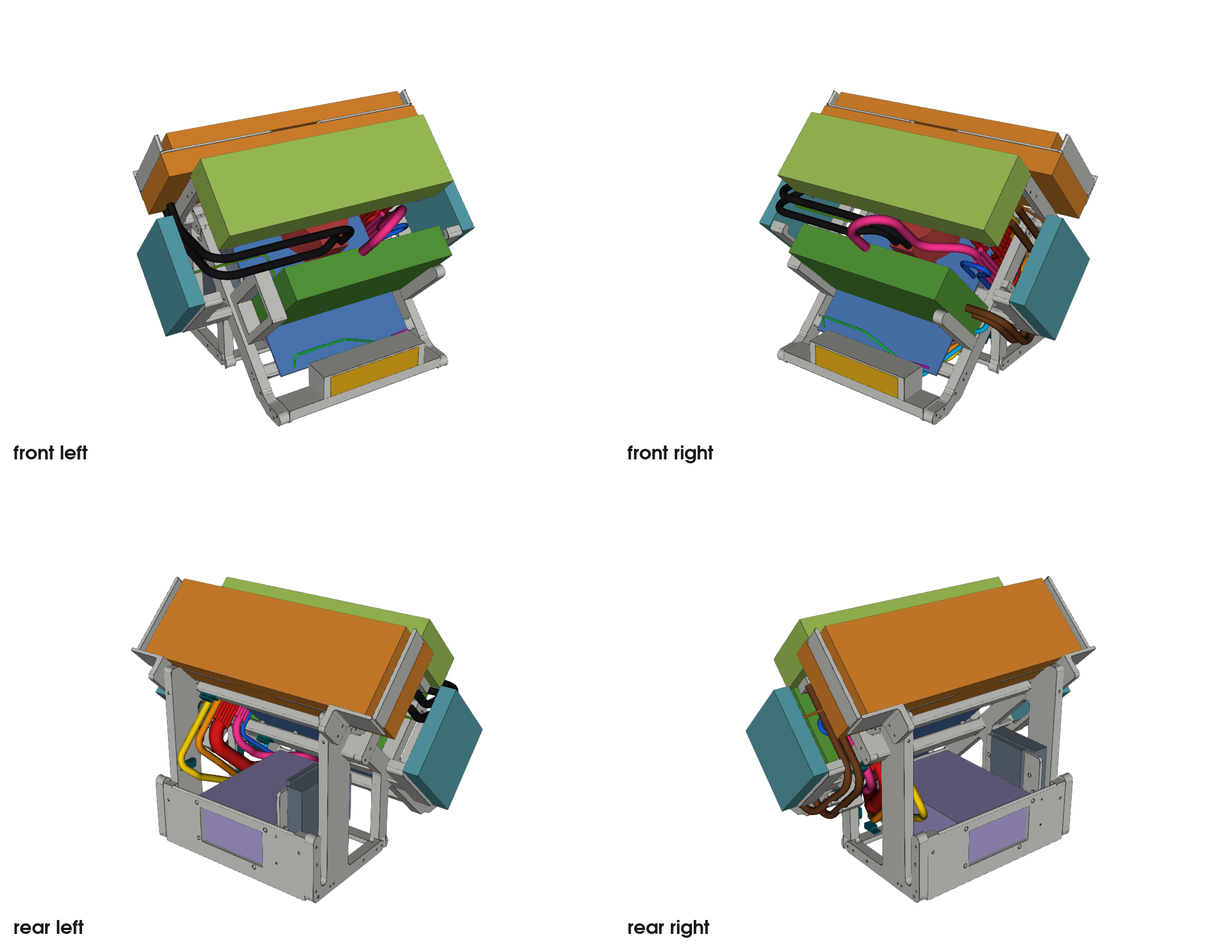
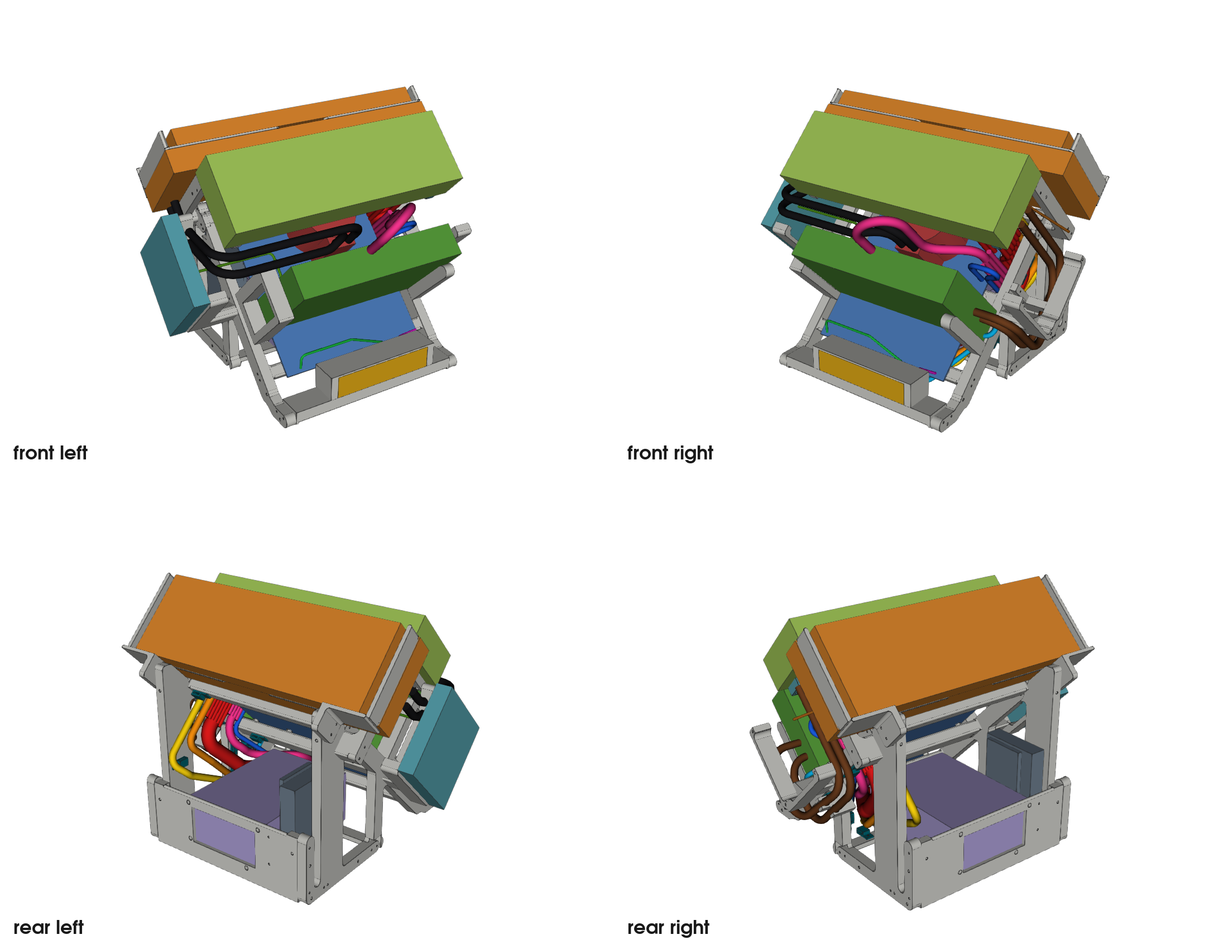
Bring the documents and the previews in step with revision 18
Grok (chores) corrected README, AGENTS.md, CLAUDE.md, the feature map, the
materials sheet and the verify skill: no sill and no light line, the carrier
on beam_front, the new masses and counts, eleven cable routes, the card's
cable at 639 mm, skeleton_screws.py, and six new rows of the feature map for
the layer's new checks. The main session read the diff, corrected one
attribution to the owner and the case count after the commit before.

Verified: none (documents and one preview)

diff --git a/docs/feature-map.md b/docs/feature-map.md
@@ -16,7 +16,7 @@ Use it two ways: as the definition of done for a revision (no row may get worse)
 | The CPU block's hoses leave where the model says | hose routes | gauge `G5` fits with a little play; the fittings turn | fitting spacing 23.8 mm not measured |
 | The side fans screw to their brackets | checks 5, 11, 17 | gauge `G6` fits | none |
 | A 3.5" or a 2.5" drive screws into the left bay | check 13 | none | no drive on hand; the bay is a provision |
-| The front I/O module sits in its carrier | check 20 (end blocks 11.60 mm, top plate 2.70 mm, 2.50 mm behind the module); check 22 (rear wall 2.90 mm, at least 2); `test_checks.py`: a module grown to its whole allowance leaves the sill unchanged and passes every check | none | every dimension of the module is a placeholder |
+| The front I/O module sits in its carrier | check 20 (end blocks 11.60 mm, top plate 2.70 mm; a 15 mm box behind the module is empty of the skeleton, and `beam_low` stands 12.55 mm behind that box); four M3 x 25 from below through `beam_front` hold the carrier; `test_checks.py`: a module grown to its whole allowance leaves `beam_front` unchanged and passes every check | none | every dimension of the module is a placeholder; the cables are routed for 2.5 mm of growth to the rear, and check 20's room allows 12.55 mm |
 
 ## Using the case
 
@@ -24,12 +24,15 @@ Use it two ways: as the definition of done for a revision (no row may get worse)
 |---|---|---|---|
 | A plug goes into each rear connector of the board and its cable leaves to the rear | `zone_access.py`: zone free, a 52 mm bundle gets out, and 52 mm with the organic layer in place (40 mm asked) | none | the plug's 50 mm depth is an assumption |
 | A plug goes into each video output of the card and its cable leaves to the rear | `zone_access.py`: zone free, a 72 mm bundle gets out, and 56 mm with the organic layer in place (40 mm asked) | none | which part of the bracket carries the outputs is read off a photograph |
+| The card's power plug can be put in | the empty box `PLUG_ZONE` (in `EMPTY_BOXES`) and the gate in the bone over the card | none | the socket's place on the card is read off a picture (12 mm tolerance) and the plug's length is an assumption |
 | A hand reaches the board's rear connectors | `zone_access.py`, the hand line: a 50 mm ball without the layer, 44 mm with it (budget 44; the layer costs the hand 6 mm) | none | the owner confirmed the budget of 44 mm on 17 Nov 2026; a hand is not a ball |
 | A drive goes in and out with the rest assembled, once the rear panel is off | `drive_access.py`: least tilt 28° of 30° allowed, computed with the layer's piece `rear_panel` taken off (`REMOVED_FOR_DRIVE`); the layer, the panel included, keeps 13.4 mm from a drive in its seat (10 asked); `test_checks.py`: with the panel counted there is no way out | none | 2° of margin; since revision 17 the panel's four screws come out first (the owner has not confirmed this) |
 | Every internal cable reaches its socket with its real length | `cables.py` | none | several real lengths are assumptions; the front I/O leads are not measured |
+| A cable or a hose does not pass through the organic layer | `organic_frame.py`'s check "no cable or hose in the layer" (`strand_checks`), cases in `test_organic.py` | none | measured to voxel centres, the printed surface can stand up to half a voxel (0.75 mm) nearer |
 | Both pairs of hoses reach without a bend tighter than 35 mm | hose routes, checks 9 and 10; check 21 (the CPU clip shadows 112 mm² of the fan's circle, limit 400); `test_checks.py`: the CPU clip still passes check 10 with either hose moved 1 mm | none | hoses are rigid lines in the model; no maker states a bend radius; the ARCTIC length is 450 or 500 mm depending on the source |
 | Nothing sticks out to catch a passer-by | check 8 (|X| 229, the fans and their brackets 260, front plane) | none | none |
-| The power button, the ports and the light line face the user | `front_sill`, check 20 (the cable window lies behind the module's rear face), `cables.py` (the front USB cables pass through the window) | none | placeholder module; the LED strip is not chosen |
+| The power button and the ports face the user | check 20 (a 15 mm box behind the module is empty of the skeleton); `cables.py` (the front USB cables start on the module's rear face) | none | every dimension of the module is a placeholder |
+| The front I/O module's carrier slides out to the front with the layer on | `carrier_checks` | none | none |
 
 ## Carrying the load
 
@@ -37,20 +40,23 @@ Use it two ways: as the definition of done for a revision (no row may get worse)
 |---|---|---|---|
 | The skeleton carries every component with a safety of 3 across the layers | `strength.py`, "stiff" model, worst 2.87 MPa of 6.7 | none | ABS figures are typical values, not this spool's |
 | A knock on a fan, a pull on a cable, the card's weight | checks 17, 18, 19 (margins 2.56, 3.29, 2.37) | none | hand calculations, no mesh |
-| An insert holds its screw | check 15: every joint engages 3.5 to 4.0 mm of thread, the minimum of the entry and the insert's 4.0 mm (the bill: 4.00 mm on every length except M3 x 20, which is 3.50 mm on 30 joints); check 7: walls as plain distances as well as the volume of the ring, at least 1.6 mm over the insert's zone (from the mouth, 4.3 mm) and 1.2 mm deeper and under the floor. The report's tightest five in the zone are 2.300, 2.300, 2.700, 2.700 and 2.700 mm; the tightest five below it and under the floor are 1.300 mm | coupon `C2` waits for the inserts | pull-out strength is not measured (two joints see about 225 N and 200 N in their worst case); the pilot's 4.4 mm is the maker's figure until `C2` is tried; the insert's depth is set by hand (flush, `docs/printer-and-materials.md`), and nothing in the model stops one pushed deeper |
-| The organic layer survives a 30 N push anywhere | `organic_strength.py`, each piece held at its own pads: `main` worst 6.5 MPa, largest movement 2.16 mm; `rear_panel` 6.4 MPa, 0.97 mm (limits 10 MPa and 5 mm); the pieces' own weight is judged too (0.15 and 0.03 MPa). The script exits with an error when a push or the weight is over a limit | none | the allowable is an ABS stand-in (20 MPa across the layers, safety 2, where the skeleton uses 3) on a layer that will be PETG; PETG's strength across the layers is not measured, so the pass is not proved for PETG |
+| An insert holds its screw | check 15: every joint engages 3.5 to 4.0 mm of thread, the minimum of the entry and the insert's 4.0 mm (the bill: 4.00 mm on every length except M3 x 20, which is 3.50 mm on 30 joints); check 7: walls as plain distances as well as the volume of the ring, at least 1.6 mm over the insert's zone (from the mouth, 4.3 mm) and 1.2 mm deeper and under the floor. The report's tightest five in the zone are 1.900, 1.900, 1.900, 1.900 and 2.250 mm; the tightest five below it and under the floor are 1.300 mm | coupon `C2` tried in PETG, not in ABS | pull-out strength is not measured (two joints see about 225 N and 200 N in their worst case); the pilot is 4.5 mm, from the PETG ladder (18 Nov 2026), still to be confirmed in ABS; the insert's depth is set by hand (flush, `docs/printer-and-materials.md`), and nothing in the model stops one pushed deeper |
+| The organic layer survives a 30 N push anywhere | `organic_strength.py`, each piece held at its own pads: `main` worst 7.4 MPa, largest movement 2.60 mm; `rear_panel` 6.4 MPa, 0.97 mm (limits 10 MPa and 5 mm); the pieces' own weight is judged too (0.18 and 0.02 MPa). The script exits with an error when a push or the weight is over a limit | none | the allowable is an ABS stand-in (20 MPa across the layers, safety 2, where the skeleton uses 3) on a layer that will be PETG; PETG's strength across the layers is not measured, so the pass is not proved for PETG |
+| A push on any film strand or cross-thread stays within the limits | the probes in `organic_strength.py` | none | the same ABS stand-in as the row above; PETG's strength across the layers is not measured |
 
 ## Making it
 
 | Feature | Proved in the model | Proved on the hardware | Gap |
 |---|---|---|---|
-| Every skeleton part fits the bed (290 mm) | check 4: every part's box along the world axes is at most 290 mm on each side (`MAX_PART`); `test_checks.py`: a sill grown to 300 mm fails | none | the box is taken along the world axes, so a part that lies at 45° is judged larger than it is (the safe side); no print orientation is recorded, and supports are not looked at |
-| Every joint uses a screw and an insert the owner has | check 15, the bill of fasteners | none | the insert's size is the owner's measurement (4.0 mm long, 4.96 mm outside, 17 Nov 2026); the pilot's diameter is an assumption until `C2` is tried; `C2` is printed in PETG (owner, 17 Nov 2026), so its figure still has to be confirmed in ABS on the first small part |
-| A screwdriver reaches every screw | `assembly_access.py` (exit 1 otherwise; `test_assembly.py`, 51 cases): each of the 120 screws (90 in inserts, 30 into the hardware) has a tool, of those assumed, that no part or hardware solid blocks at the step its joint is complete; check 23 for the screw's own part; the organic pads by `driver_blocked` | none | the tools are assumptions (a straight driver 75 mm with a 30 mm handle, a 2.5 mm L-key, a 45 mm stubby driver) until the owner names his; 22 screws are reached only while the case is being put together, so re-tightening them means taking off what covers them; the organic layer and the cables are not in the case here; the two front I/O screws are not judged (placeholder); a hand is not modelled |
-| The parts can be put together in some order | `assembly_access.py` finds one (45 steps in the case, and the 360 with its two arms put together on the bench first) and writes it to `out/assembly/order.md`; the order is re-checked step by step by the rule the search uses | none | no path is computed for moving a part into its place past the others; nobody holds the part while its first screw goes in; the CPU block and the card have no screw in the model; the card hangs on its hoses from the 360, so it goes into its slot in the step in which the 360 with its arms is bolted to the necks; the order is not tried on printed parts |
+| Every skeleton part fits the bed (290 mm) | check 4: every part's box along the world axes is at most 290 mm on each side (`MAX_PART`); the longest part is 289.7 mm; `test_checks.py`: `beam_front` grown to 300 mm fails | none | the box is taken along the world axes, so a part that lies at 45° is judged larger than it is (the safe side); no print orientation is recorded, and supports are not looked at |
+| Every joint uses a screw and an insert the owner has | check 15, the bill of fasteners | none | the insert's size is the owner's measurement (4.0 mm long, 4.96 mm outside, 17 Nov 2026); the model's pilot is 4.5 mm, from the PETG ladder (`C2`, 18 Nov 2026), still to be confirmed in ABS on the first small part |
+| A screwdriver reaches every screw | `assembly_access.py` (exit 1 otherwise; `test_assembly.py`, 52 cases): each of the 116 screws (86 in inserts, 30 into the hardware) has a tool, of those assumed, that no part or hardware solid blocks at the step its joint is complete; check 23 for the screw's own part; the organic pads by `driver_blocked` | none | the tools are assumptions (a straight driver 75 mm with a 30 mm handle, a 2.5 mm L-key, a 45 mm stubby driver) until the owner names his; 22 screws are reached only while the case is being put together, so re-tightening them means taking off what covers them; the organic layer and the cables are not in the case here; the two front I/O screws are not judged (placeholder); a hand is not modelled |
+| The parts can be put together in some order | `assembly_access.py` finds one (43 steps in the case, and the 360 with its two arms put together on the bench first) and writes it to `out/assembly/order.md`; the order is re-checked step by step by the rule the search uses | none | no path is computed for moving a part into its place past the others; nobody holds the part while its first screw goes in; the CPU block and the card have no screw in the model; the card hangs on its hoses from the 360, so it goes into its slot in the step in which the 360 with its arms is bolted to the necks; the order is not tried on printed parts |
+| The organic layer goes on over the skeleton's screws | the check "no layer in a screw's head" (`head_distance_checks`, 1 mm) and the pad rule against washers in `pad_fits` | none | none |
+| An insert's pilot under a pad is free of the layer | `pilot_checks` | none | none |
 | Printed holes come out the size the model asks | none | `C1` in PETG: about 150 mm on both legs where the model has 150 (owner, 18 Nov 2026, no figures given); `C2` in PETG: inserts sit best in 4.5 to 4.6 mm | ABS is not measured (the skeleton's material); the owner gave "about 150" and no readings; the model's pilot is 4.5 since 18 Nov 2026, from the PETG ladder, to be confirmed on the first small ABS part with an insert; the M3 clearance row of `C2` is not reported |
 | The organic layer prints | `organic_frame.py`, bed check: the piece `rear_panel`, standing as built and turned 45° about the vertical, takes 245.0 x 244.0 mm and is 211.5 mm tall (290 allowed each way); `cad_b6/organic_manifest.py` names any piece that changes outside an expected list | none | `main` is not split into pieces and is not judged against the bed; the panel is 321 mm wide and does not lie flat: printed upright and turned, with support under its bars and legs, not tried on the printer. The trial piece of the layer printed well in PETG (owner, 18 Nov 2026: no problem with the steps of the surface, the supports or the strength), so the surface's steps are no longer an open point; flat supports came off badly and tree supports well, and the parts stuck hard to a bed without glue (`docs/printer-and-materials.md`) |
-| The open rear above the PSU is closed by a panel that leaves the cables, the screws and the PSU alone | `organic_frame.py`: the piece `rear_panel` is one body on four pads (two on `psu_bulkhead`, one on each `rib_B` post), 3 mm and more from `main` (15.7 mm), no voxel in the driver's way to the six screw heads on the bulkhead's rear face, 10 mm from the PSU; `zone_access.py`: the bundles (52 and 56 mm) and the hand (44 mm) are as without it; checks 5, 7 and 15 for its four pilots | none | the case is 10 mm deeper (Y 391.75 against the skeleton's 382); the PSU's fan has no modelled opening and no air gap is asserted; no check judges a driver's way to an organic pad past the skeleton and the hardware (`driver_blocked` looks at the layer's own bones, `assembly_access.py` skips organic pads); for the two top pads it was measured by hand twice: 9.85 mm clear of the antler |
+| The open rear above the PSU is closed by a panel that leaves the cables, the screws and the PSU alone | `organic_frame.py`: the piece `rear_panel` is one body on four pads (two on `psu_bulkhead`, one on each `rib_B` post), 3 mm and more from `main` (5.85 mm), no voxel in the driver's way to the six screw heads on the bulkhead's rear face, 10 mm from the PSU; `zone_access.py`: the bundles (52 and 56 mm) and the hand (44 mm) are as without it; checks 5, 7 and 15 for its four pilots | none | the case is 10 mm deeper (Y 391.75 against the skeleton's 382); the PSU's fan has no modelled opening and no air gap is asserted; no check judges a driver's way to an organic pad past the skeleton and the hardware (`driver_blocked` looks at the layer's own bones, `assembly_access.py` skips organic pads); for the two top pads it was measured by hand twice: 9.85 mm clear of the antler |
 
 ## Budgets
 
@@ -58,9 +64,9 @@ What the owner pays for, recorded in `cad_b6/budgets.json` and held by `cad_b6/c
 
 | Feature | Proved in the model | Proved on the hardware | Gap |
 |---|---|---|---|
-| The skeleton prints from the black ABS on hand | `check_budgets.py`: ABS at 4 walls / 20 % 1732.9 g, ratchet 1767.6 g (+ 2 %), floor 1646.3 g (- 5 %), hard limit 1800 g (90 % of the 2 kg in `hw.ABS_STOCK_G`) | none | 67.1 g (3.7 %) left under the hard limit; supports and rejects are not counted; the 4 walls / 20 % formula is an estimate, not a slicer's figure |
-| The organic layer prints from the PETG ordered | `check_budgets.py`: 2044.0 cm3 (2595.9 g solid) with the rear panel, ratchet + 2 %, floor - 5 %, hard limit 3600 g solid (90 % of 4 kg) | none | solid volume, not the slicer's; supports not counted |
-| The checks run often enough to be used | `check_budgets.py`: the fast `test_checks.py` gated on six counts, each limited to the larger of + 1 and + 10 % rounded down: frame builds 9 (limit 10), `run_checks` calls 127 (limit 139), cable routings 12 (13), cable evaluations 6 (7), zone_access runs 8 (9), drive_access maps 3 (4); a count under its record fails (the suite did less work). Its wall time (355.4 s recorded, 6 workers) warns at its margin of 0.25. The record must be of the working tree's code (its digest) and of the Python and package versions installed now, and hold the 329 cases of `EXPECTED_CASES` | none | wall time depends on the machine's load; counts do not see a slower single operation; on a small count + 1 is more than 10 % (3 drive_access maps may become 4) |
+| The skeleton prints from the black ABS on hand | `check_budgets.py`: ABS at 4 walls / 20 % 1534.6 g, ratchet 1565.3 g (+ 2 %), floor 1457.9 g (- 5 %), hard limit 1800 g (90 % of the 2 kg in `hw.ABS_STOCK_G`) | none | 265.4 g (14.7 %) left under the hard limit; supports and rejects are not counted; the 4 walls / 20 % formula is an estimate, not a slicer's figure |
+| The organic layer prints from the PETG ordered | `check_budgets.py`: 2218.7 cm3 (2818 g solid, `main` 2431 g and `rear_panel` 387 g) with the rear panel, ratchet + 2 %, floor - 5 %, hard limit 3600 g solid (90 % of 4 kg) | none | solid volume, not the slicer's; supports not counted |
+| The checks run often enough to be used | `check_budgets.py`: the fast `test_checks.py` gated on six counts, each limited to the larger of + 1 and + 10 % rounded down: frame builds 9 (limit 10), `run_checks` calls 125 (limit 137), cable routings 13 (14), cable evaluations 6 (7), zone_access runs 8 (9), drive_access maps 3 (4); a count under its record fails (the suite did less work). Its wall time (347.3 s recorded, 6 workers) warns at its margin of 0.25. The record must be of the working tree's code (its digest) and of the Python and package versions installed now, and hold the 328 cases of `EXPECTED_CASES` | none | wall time depends on the machine's load; counts do not see a slower single operation; on a small count + 1 is more than 10 % (3 drive_access maps may become 4) |
 
 ## Not looked at
 

diff --git a/README.md b/README.md
@@ -4,7 +4,7 @@ Ossa is an open, 3D-printed PC case for a liquid-cooled build, modelled as CadQu
 
 This is a design study. Some fit gauges have been printed and tried; no case part has been printed yet.
 
-| Skeleton with hardware | Organic layer (sketch) |
+| Skeleton with hardware | Organic layer |
 |---|---|
 | ![Skeleton with hardware](previews/b6_v0_front_left_hw.png) | ![Organic layer](previews/b6_shell_organic_front_left.png) |
 
@@ -17,12 +17,12 @@ The current layout is called B6.
 - The CPU's 420 mm radiator stands at 90° to the board, behind its top edge.
 - Neither pump is the highest point of its loop. That was the reason for the layout.
 - Radiator fans sit on the outside and blow in. Two 140 mm fans stand on the flanks, outside the radiators' ends since revision 13 (|X| 235..260), and exhaust.
-- The power supply sits under the board. A sill at the front holds the I/O module and a light line.
+- The power supply sits under the board. The front I/O module sits in its carrier on the front beam.
 - Both hose pairs run inside the envelope, so nothing sticks out to snag.
 
 The case is 520.0 mm wide, 382.0 mm deep and 400.0 mm high. The skeleton itself stays inside |X| 229; the side-fan brackets reach the fans' inner face at |X| 235. Every printed part is 290 mm or shorter, to fit a 300 mm printer bed.
 
-The skeleton is 37 printed parts: 3222 cm³, 3354 g solid, ~1756 g at 4 walls and 20 % infill, of which the ABS is 1732.9 g. The organic layer is two pieces, counted in its own report: 2044 cm³, 2596 g of PETG solid. Revision 14a made the card's right-hand rest (`gpu_rest`) and the front I/O module's carrier (`front_io_carrier`) separate small parts, and put the CPU hose clip on the left fan's free corner. Revision 16 cut an open groove through the knee of `visor_arm_left` and `visor_arm_right` so the 360's screw at that end can pass its head. Revision 17 adds the layer's second piece, the rear panel, on four pads, 321 mm wide, printed upright and turned 45 degrees, and taken off before a drive comes out.
+The skeleton is 36 printed parts: 2809.7 cm³, 2925.0 g solid, 1557.6 g at 4 walls and 20 % infill, of which the ABS is 1534.6 g. The organic layer is two pieces, counted in its own report: `main` 1914.2 cm³ (2431 g of PETG solid) and `rear_panel` 304.5 cm³ (387 g). Revision 14a made the card's right-hand rest (`gpu_rest`) and the front I/O module's carrier (`front_io_carrier`) separate small parts, and put the CPU hose clip on the left fan's free corner. Revision 16 cut an open groove through the knee of `visor_arm_left` and `visor_arm_right` so the 360's screw at that end can pass its head. Revision 17 adds the layer's second piece, the rear panel, on four pads, 321 mm wide, printed upright and turned 45 degrees, and taken off before a drive comes out. Revision 18 removes the front sill and the light line, and holds the carrier by four M3 x 25 from below through `beam_front`.
 
 | Component | Model |
 |---|---|
@@ -39,12 +39,13 @@ The skeleton is 37 printed parts: 3222 cm³, 3354 g solid, ~1756 g at 4 walls an
 | `cad_b6/hardware.py` | The only place hardware dimensions and mounting coordinates live |
 | `cad_b6/frame_v0.py` | The skeleton, its checks, the report and the STEP export |
 | `cad_b6/rounding.py` | Rounds the skeleton's corners where the checks allow it |
-| `cad_b6/test_checks.py` | Damages the model on purpose to prove each check fails when it should (329 cases) |
-| `cad_b6/assembly_access.py`, `cad_b6/test_assembly.py` | Whether every screw can be driven, and one order of assembly: the 360 with its two arms is a bench group, and a part that only sits on another goes on after it (51 cases) |
+| `cad_b6/test_checks.py` | Damages the model on purpose to prove each check fails when it should (328 cases) |
+| `cad_b6/assembly_access.py`, `cad_b6/test_assembly.py` | Whether every screw can be driven, and one order of assembly: the 360 with its two arms is a bench group, and a part that only sits on another goes on after it (52 cases) |
+| `cad_b6/skeleton_screws.py` | The skeleton's screws (seat, axis, head, washer) that both `assembly_access.py` and the organic layer read |
 | `cad_b6/hoses.py`, `hose_routes.py` | Hose routes built from straight runs and constant-radius bends |
 | `cad_b6/strength.py` | Linear finite-element check of the skeleton, and plastic needed per infill |
 | `cad_b6/organic_frame.py`, `organic_strength.py`, `organic_manifest.py` | The organic outer layer as named pieces with their fixings, the strength check of each piece, and a fingerprint of each piece |
-| `cad_b6/cables.py` | Cable routes and their checks |
+| `cad_b6/cables.py` | Eleven cable routes and their checks |
 | `cad_b6/fit_gauges.py` | Thin test plates that check the model's numbers against the real hardware |
 | `cad_b6/render_vtk.py`, `render_full.py`, `measure.py` | Offscreen renders (`render_full.py` draws the whole design from every side) and distance measurements |
 | `docs/plans/b6-frame-v0.md` | The design record: every revision, with reasons and coordinates |
@@ -61,7 +62,7 @@ python3 -m venv .venv
 .venv/bin/pip install -r requirements.txt
 
 .venv/bin/python cad_b6/frame_v0.py      # build, run every check, write the report and STEP
-.venv/bin/python cad_b6/test_checks.py   # 329 cases, worker processes, about 6 minutes; the record is out/test_checks/fast.json; prove the checks bite
+.venv/bin/python cad_b6/test_checks.py   # 328 cases, worker processes, about 6 minutes; the record is out/test_checks/fast.json; prove the checks bite
 .venv/bin/python cad_b6/test_checks.py --serial  # the same suite in one process; the record is out/test_checks/serial.json
 .venv/bin/python cad_b6/test_checks.py --diff out/test_checks/serial.json out/test_checks/fast.json  # compare two runs: the case lists must be identical
 .venv/bin/python cad_b6/test_runner.py   # the runner on a fake suite: a dropped or emptied section, a short --diff, a file that moves during the run, and, in worker processes, a section that raises or a worker that dies, all fail
@@ -69,15 +70,15 @@ python3 -m venv .venv
 .venv/bin/python cad_b6/check_budgets.py # one line per budget of the skeleton's ABS, the organic layer and the suite's counts; exit 1 on a FAIL
 .venv/bin/python cad_b6/organic_trial.py # the boxed trial of the organic layer is one closed piece with its pad inside; writes out/organic/trial_base_mid_R.stl
 .venv/bin/python cad_b6/test_properties.py  # property tests of the helper functions; ends PASS (a known failure is listed, not hidden)
-.venv/bin/python cad_b6/test_organic.py  # 51 cases: the organic layer's checks fail when the field is damaged
+.venv/bin/python cad_b6/test_organic.py  # 65 cases, 43 with --quick: the organic layer's checks fail when the field is damaged
 .venv/bin/python cad_b6/zone_access.py   # plug zones free; bundles 52 mm and 72 mm, and 52 mm and 56 mm with the layer; a hand, 50 mm without the layer and 44 mm with it
-.venv/bin/python cad_b6/assembly_access.py  # about 3 minutes: every screw against the assumed tools; the 360 with its two arms is a bench group, and a node in SITS_ON goes on after what it sits on; writes the order to out/assembly/order.md; exit 0 when that order drives every screw, exit 1 when a screw cannot be driven, no order exists, the order fails the same check, or a bench group or SITS_ON names a node that is not one (tests: cad_b6/test_assembly.py, 51 cases)
+.venv/bin/python cad_b6/assembly_access.py  # about 3 minutes: every screw against the assumed tools; the 360 with its two arms is a bench group, and a node in SITS_ON goes on after what it sits on; writes the order to out/assembly/order.md; exit 0 when that order drives every screw, exit 1 when a screw cannot be driven, no order exists, the order fails the same check, or a bench group or SITS_ON names a node that is not one (tests: cad_b6/test_assembly.py, 52 cases)
 .venv/bin/python cad_b6/parts_manifest.py --expect <parts>  # exit 1 names any part or hardware solid that changed outside the list
 .venv/bin/python cad_b6/organic_manifest.py --expect <pieces>  # exit 1 names any piece of the organic layer that changed outside the list
 .venv/bin/python cad_b6/render_vtk.py    # previews/b6_v0_*.png
 .venv/bin/python cad_b6/render_full.py   # previews/b6_full_*.png, the whole design
 .venv/bin/python cad_b6/render_blender.py # meshes for the Blender render (cad_b6/blender_scene.py, previews/b6_render_*.png)
-.venv/bin/python cad_b6/organic_strength.py  # about 5 minutes: judges each piece; a 30 N push, and exits with an error if a push is over the allowable stress or the piece moves more than 5 mm
+.venv/bin/python cad_b6/organic_strength.py  # about 34 minutes on the Mac (it took 5), most of it waiting for memory: judges each piece, a 30 N push and a probe on each film strand and cross-thread; run once per revision, not after every edit; exits with an error if a push is over the allowable stress or the piece moves more than 5 mm
 .venv/bin/python cad_b6/strength.py 7 2  # strength and plastic, about 3.5 minutes on Apple silicon (Accelerate through the macldlt package)
 ```
 
@@ -114,7 +115,6 @@ A separate check keeps each contact face at 97 % of its area or more after round
 
 - **Skeleton:** ABS. It carries every component.
 - **Organic layer:** PETG, with ABS as the fallback (it was PLA until 16 Nov 2026). It keeps the 10 mm from the graphics card and the power supply it was drawn with.
-- **Light line diffuser:** translucent PLA, 10 mm from the LED strip.
 - **Hose guides:** PA6 nylon (their mouths snap over the hose). The cable tie bridges are ABS: a hook-and-loop strap holds the cable, nothing snaps.
 
 ## Not done yet
@@ -126,7 +126,7 @@ A separate check keeps each contact face at 97 % of its area or more after round
 - The pilot's diameter of 4.5 mm comes from the ladder C2 printed in PETG (the owner, 18 Nov 2026: the inserts sit best in 4.5 to 4.6 mm; before that it was the maker's 4.4). The skeleton is ABS: the figure is confirmed on the first small ABS part.
 - The second pass of the fit gauges with the PC apart (G1, G2, G3, G4a, G4b) and the coupons C1 and C2.
 - The Blender pictures (stale since revision 13).
-- Cable routes are drawn and checked, and eleven tie points for hook-and-loop straps shape them. The graphics card's power cable stands 10.4 mm in front of the front plane, which the owner accepted, up to 11 mm.
+- Eleven cable routes are drawn and checked, and eleven tie points for hook-and-loop straps shape them. The graphics card's power cable is 639 mm and stands 9.1 mm in front of the front plane, which the owner accepted, up to 11 mm.
 - The tools `assembly_access.py` uses are assumptions until the owner names his.
 
 ## Working with coding agents

diff --git a/docs/printer-and-materials.md b/docs/printer-and-materials.md
@@ -15,20 +15,20 @@ Given by the owner on 15 Nov 2026. Facts about his equipment, not design decisio
 ## Filament, 1.75 mm
 | Material | Colour | Use in this project |
 |---|---|---|
-| Creality CR-ABS, Creality Hyper ABS | black | load-bearing skeleton (`cad_b6/frame_v0.py`) and, since 16 Nov 2026, the organic outer layer (`cad_b6/organic_frame.py`): the owner finds ABS cheaper than PLA now |
-| Creality Hyper PLA | black | no planned use since the organic layer went to ABS |
-| ELEGOO translucent PLA | translucent | diffuser of the light line |
-| yxpolyer Nylon PA6, unfilled, 1 kg | black | parts that snap: the two hose guides only. The cable tie bridges are ABS since 16 Nov 2026 (hook-and-loop straps hold the cables), and the PLA layer is fixed with M3 screws |
+| Creality CR-ABS, Creality Hyper ABS | black | load-bearing skeleton (`cad_b6/frame_v0.py`). The organic layer is PETG, which the owner's trial prints of 18 Nov 2026 proved; ABS stays its fallback and is not expected to be needed |
+| Creality Hyper PLA | black | no planned use since the organic layer left PLA |
+| ELEGOO translucent PLA | translucent | no planned use since revision 18 dropped the light line |
+| yxpolyer Nylon PA6, unfilled, 1 kg | black | parts that snap: the two hose guides only. The cable tie bridges are ABS since 16 Nov 2026 (hook-and-loop straps hold the cables), and the organic layer is fixed with M3 screws |
 | plain PLA | white | test prints of every part before it is printed in ABS (owner's decision, 16 Nov 2026) |
 
 ## Stock and order of printing (owner, 16 Nov 2026)
 
-- **Black ABS:** two spools of 1 kg. The skeleton is about 1.73 kg at 4 walls and 20 % infill (`cad_b6/check_budgets.py`, 18 Nov 2026; 1.65 kg when this was written), before supports and rejects, so nothing is wasted on trials.
+- **Black ABS:** two spools of 1 kg. The skeleton is 1534.6 g at 4 walls and 20 % infill (`cad_b6/report_frame_v0.txt`; 1.65 kg when this was written), before supports and rejects, so nothing is wasted on trials.
 - **Trials in white PLA first.** A part is printed in white PLA and checked on the hardware; ABS follows only when the trial fits.
 - **Black PLA:** about 1.8 kg. Not needed for the case since the organic layer left PLA.
-- **Black PETG:** 4 kg ordered on 16 Nov 2026 (SUNLU Rapid PETG, four 1 kg spools, matte, nozzle 230 to 270 C, bed 70 to 80 C). For the organic layer: 2044 cm3, 2596 g solid of that 4 kg (`cad_b6/report_organic.txt`). It has to be dried and kept dry: the CFS is at about 65 % humidity. Whether the spool fits the CFS is not known; the outside holder takes any spool.
+- **Black PETG:** 4 kg ordered on 16 Nov 2026 (SUNLU Rapid PETG, four 1 kg spools, matte, nozzle 230 to 270 C, bed 70 to 80 C). For the organic layer: 2218.7 cm3, `main` 2431 g and `rear_panel` 387 g of PETG solid (`cad_b6/report_organic.txt`). It has to be dried and kept dry: the CFS is at about 65 % humidity. Whether the spool fits the CFS is not known; the outside holder takes any spool.
 - **M3 inserts:** 200 ordered on 16 Nov 2026.
-- **If the layer goes to ABS after all, ABS needed in all:** about 1.73 kg for the skeleton and 2.1 kg solid for the organic layer (2044 cm3 at the report's 1.04 g/cm3), before supports and rejects, against the 2 kg on hand. The earlier band, 1.5 to 2 kg for the layer with its supports and 4 to 5 kg in all, was for the layer at 1742 cm3.
+- **If the layer goes to ABS after all, ABS needed in all:** 1534.6 g for the skeleton and about 2.3 kg solid for the organic layer (2218.7 cm3 at the report's 1.04 g/cm3), before supports and rejects, against the 2 kg on hand. The earlier band, 1.5 to 2 kg for the layer with its supports and 4 to 5 kg in all, was for the layer at 1742 cm3.
 - **Side fans:** the two 140 mm fans come from the owner's present case.
 - **Radiator fans (owner, 18 Nov 2026):** the 420 keeps the ARCTIC fans it came with. The card's 360 gets Noctua fans; the owner says they are as thick as ordinary ones (the model has 25 mm for the 360's fans). The side fans stay the two from the present case.
 - **PETG is proved for the organic layer (owner, 18 Nov 2026):** the trial piece of the layer, the insert ladder and the scale coupon were printed in PETG. The trial piece shows no problem with the surface's steps, the supports or the strength; the coupon's legs come out at about 150 mm where the model has 150. ABS as the fallback for the layer is not needed. Which slicer settings the owner used is not recorded.
@@ -38,7 +38,7 @@ Given by the owner on 15 Nov 2026. Facts about his equipment, not design decisio
 
 Mind when reading a PLA trial: ABS shrinks more than PLA as it cools, so a hole or a fit that is right in PLA comes out a little tighter in ABS. Fits that matter (insert pilots, screw clearances, the fit gauges) are confirmed on a small ABS piece, not on the PLA trial.
 
-**The insert ladder goes in PETG first (owner, 17 Nov 2026).** The owner has PETG to spare, and the ladder in ABS would take, by the main session's estimate, 20 to 30 g of the about 67 g left under the ABS limit (`cad_b6/budgets.json`). What the PETG ladder gives is a first figure for the pilot, not the last one. Both reasons are the main session's, from typical figures, not measured: ABS shrinks more than PETG, so the same hole comes out a little tighter in ABS (about 0.02 mm on a 4.4 mm hole, under the ladder's 0.1 mm step), and ABS softens at a higher temperature (glass transition about 105 °C against about 80 °C), so the insert goes in differently. The figure is confirmed on the first small ABS part that carries an insert, before any large part is printed. `C1_scale_l` printed in PETG beside the ladder gives PETG's shrinkage, which the organic layer needs anyway.
+**The insert ladder goes in PETG first (owner, 17 Nov 2026).** The owner has PETG to spare, and the ladder in ABS would take, by the main session's estimate, 20 to 30 g of the about 67 g then left under the ABS limit. The skeleton is 1534.6 g now (`cad_b6/report_frame_v0.txt`). What the PETG ladder gives is a first figure for the pilot, not the last one. Both reasons are the main session's, from typical figures, not measured: ABS shrinks more than PETG, so the same hole comes out a little tighter in ABS (about 0.02 mm on a 4.4 mm hole, under the ladder's 0.1 mm step), and ABS softens at a higher temperature (glass transition about 105 °C against about 80 °C), so the insert goes in differently. The figure is confirmed on the first small ABS part that carries an insert, before any large part is printed. `C1_scale_l` printed in PETG beside the ladder gives PETG's shrinkage, which the organic layer needs anyway.
 
 ## What follows for printing
 - PA6 takes up water fast and prints badly when damp. At 65 % humidity the CFS is not a place to keep it: dry it before printing and feed it from a dry box.
@@ -75,12 +75,7 @@ What follows for the model is in `docs/plans/fasteners-m3.md`.
 
 ## LED strip for the light line (researched 16 Nov 2026)
 
-Looked for on amazon.de by Grok (`web-research`); the product pages were then opened and read in the main session.
-
-- **Header on the board:** JARGB_V2, 5 V, 3 A, 180 LEDs at most, pins +5 V, data, no pin, ground (MSI user guide, page 55).
-- **No bare strip up to 10 mm wide comes with the motherboard plug.** The ready-made PC strips with that plug are 16 to 20 mm wide bars and do not fit the 14 x 14 mm channel.
-- **Strip:** BTF-LIGHTING WS2812 ECO, 1 m, 60 LEDs per metre, black PCB, IP30, 10 mm wide, JST-SM 3-pin on both ends, ASIN B088BRY2SH, 9.49 EUR, in stock on the day. About 270 mm is used: 16 LEDs, at most 0.96 A at full white, so it is run dimmed in the closed channel. The same strip with 30 LEDs per metre is sold only as a 5 m roll (ASIN B088BB8WTZ, 17.99 EUR); its 33 mm pitch behind a 10 mm air gap would show as separate dots (main session's judgement, not tested).
-- **Lead from the board to the strip:** a "5 V 3-pin ARGB to SM 3-pin" cable, for example ASIN B0CQJLQ7ZC (four 30 cm cables, 5.99 EUR) or B0F8C4SB31 (a 30 cm splitter, 6.69 EUR). Not verified: whether the lead's SM end is the gender that mates with the strip's input end, and the wire order. The strip is one-directional (data in at one end). If the plug does not mate, three wires are soldered.
+Revision 18 dropped the light line, so no strip is specified.
 
 ## Printing SUNLU Rapid PETG on the K1 Max (Grok `web-research`, 17 Nov 2026; not re-opened by the main session)
 

diff --git a/CLAUDE.md b/CLAUDE.md
@@ -10,7 +10,7 @@ A 3D-printed open PC case modelled as CadQuery scripts. Current model: `cad_b6/`
 - Research and chores (re-rendering previews, report and doc updates, file housekeeping) go to Grok, as the global rules say. Agreed with the owner on 16 Nov 2026 for every revision: Grok checks the spec's claims against the code before it goes to `cad-implementer`, reviews the finished change, and afterwards re-renders the previews and brings `README.md`, `AGENTS.md` and this file in step. Reference lookups (filament settings, hose and fitting data, hardware dimensions) go to Grok too. Layout and geometry decisions stay in the main session. This folder is trusted for Grok, so its children load `AGENTS.md` and this file at startup; keep the two in step.
 - `cad_b5/` and `history/` are frozen.
 - Commits: any model may commit to its own working branch when the work is verified; only Fable-class and Opus-class models commit to `main`. A delegated child commits only when its task says so. Pushing needs the owner's go-ahead.
-- Materials: load-bearing parts (`cad_b6/frame_v0.py`) are ABS; the organic outer layer (`cad_b6/organic_frame.py`) is no longer PLA: the owner ordered black PETG for it on 16 Nov 2026, with black ABS as the fallback if a trial piece prints badly; it carries no component and keeps the 10 mm from the graphics card and the PSU it was drawn with; the light line's diffuser is translucent PLA, so the LED strip sits on the ABS sill with a 10 mm air gap to it.
+- Materials: load-bearing parts (`cad_b6/frame_v0.py`) are ABS; the organic outer layer (`cad_b6/organic_frame.py`) is no longer PLA: the owner ordered black PETG for it on 16 Nov 2026, with black ABS as the fallback if a trial piece prints badly; it carries no component and keeps the 10 mm from the graphics card and the PSU it was drawn with.
 - The organic layer is built as named pieces. `cad_b6/organic_manifest.py --expect <pieces>` is to the layer what `cad_b6/parts_manifest.py` is to the skeleton.
 - Verification (adopted on 17 Nov 2026 from Anthropic's note on how the Claude Code team verifies): `REVIEW.md` is the reviewer's guide and the checklist of this project's past mistakes, each with its trigger in a diff; every review task points to it. `docs/feature-map.md` lists what the case has to do and what proves each item; a revision is done when no row got worse. A change does not relax the check that judges it. End each commit that changes `cad_b6/` with a line `Verified: <what was rerun and its result>` or `Verified: none (<why>)`. If a check still fails after three rounds of fixing, stop and bring it to the owner.
 - Printer, firmware limits and the filament on hand: `docs/printer-and-materials.md`. Never change the printer's firmware.

diff --git a/.claude/skills/verify/SKILL.md b/.claude/skills/verify/SKILL.md
@@ -37,12 +37,12 @@ Run these after `frame_v0.py`. None of them needs a view, and they can run side 
 
 `parts_manifest.py` compares the working tree with `cad_b6/parts_manifest.json` in the last commit. Take the list from the spec (`tie_bridge_*` and `hw:<name>` work). Quote its table in the report. Rewrite the manifest with `--write` only in the commit that carries the revision, after the table has been read. A property that fails is a finding: do not weaken it. `organic_manifest.py --expect <pieces>` is to the layer what `parts_manifest.py` is to the skeleton.
 
-`cad_b6/test_organic.py` has 51 cases, 32 with `--quick`.
+`cad_b6/test_organic.py` has 65 cases, 43 with `--quick`. `cad_b6/organic_strength.py` now takes about 34 minutes on the Mac (it took 5), most of it waiting for memory, so it is run once per revision and not after every edit.
 
 ## The checks bite: test_checks.py
 
 ```bash
-.venv/bin/python cad_b6/test_checks.py                    # ~5 min (309 and 316 s idle, 319 to 340 s under load, 403 and 406 s under load in a fresh checkout with no earlier record to order the sections; 6 workers): the sections in worker processes; ends "N/N cases as expected", N being EXPECTED_CASES in test_checks.py (329 now); fewer cases is a failure
+.venv/bin/python cad_b6/test_checks.py                    # ~5 min (309 and 316 s idle, 319 to 340 s under load, 403 and 406 s under load in a fresh checkout with no earlier record to order the sections; 6 workers): the sections in worker processes; ends "N/N cases as expected", N being EXPECTED_CASES in test_checks.py (328 now); fewer cases is a failure
 .venv/bin/python cad_b6/test_checks.py --serial           # ~32 min (1943 s, partly under load; the suite before the sections took 3396 s under load): everything in one process, as before the sections
 .venv/bin/python cad_b6/test_checks.py --diff out/test_checks/serial.json out/test_checks/fast.json      # the two case lists must be IDENTICAL
 .venv/bin/python cad_b6/test_runner.py                    # ~15 s: the runner on a fake suite, both modes: a dropped or emptied section fails, --diff of two short runs fails, a file moved during the run fails; in worker processes a section that raises or a worker that dies fails, sections run longest first, sources and packages are the union over the processes

diff --git a/AGENTS.md b/AGENTS.md
@@ -10,6 +10,6 @@ A 3D-printed open PC case modelled as CadQuery 2.8 scripts. Current model: `cad_
 - Commits: any model may commit to its own working branch when the work is verified; only Fable-class and Opus-class models commit to `main`. A delegated child commits only when its task says so. Pushing needs the owner's go-ahead.
 - Layout and geometry decisions belong to the main session. Do not move hardware or redesign parts on your own.
 - When you review a change, read `REVIEW.md` from the last commit (`git show HEAD:REVIEW.md`) and check the rows whose trigger is in the diff. When you build one, do not relax a check or a test that judges your own change; if a check still fails after three rounds of fixing, stop and report. `docs/feature-map.md` lists what the case has to do and what proves it.
-- Materials: load-bearing parts (`cad_b6/frame_v0.py`) are ABS; the organic outer layer (`cad_b6/organic_frame.py`) is no longer PLA: the owner ordered black PETG for it on 16 Nov 2026, with black ABS as the fallback if a trial piece prints badly; it carries no component and keeps the 10 mm from the graphics card and the PSU it was drawn with; the light line's diffuser is translucent PLA, so the LED strip sits on the ABS sill with a 10 mm air gap to it.
+- Materials: load-bearing parts (`cad_b6/frame_v0.py`) are ABS; the organic outer layer (`cad_b6/organic_frame.py`) is no longer PLA: the owner ordered black PETG for it on 16 Nov 2026, with black ABS as the fallback if a trial piece prints badly; it carries no component and keeps the 10 mm from the graphics card and the PSU it was drawn with.
 - The organic layer is built as named pieces. `cad_b6/organic_manifest.py --expect <pieces>` is to the layer what `cad_b6/parts_manifest.py` is to the skeleton.
 - Printer, firmware limits and the filament on hand: `docs/printer-and-materials.md`. Never change the printer's firmware.
